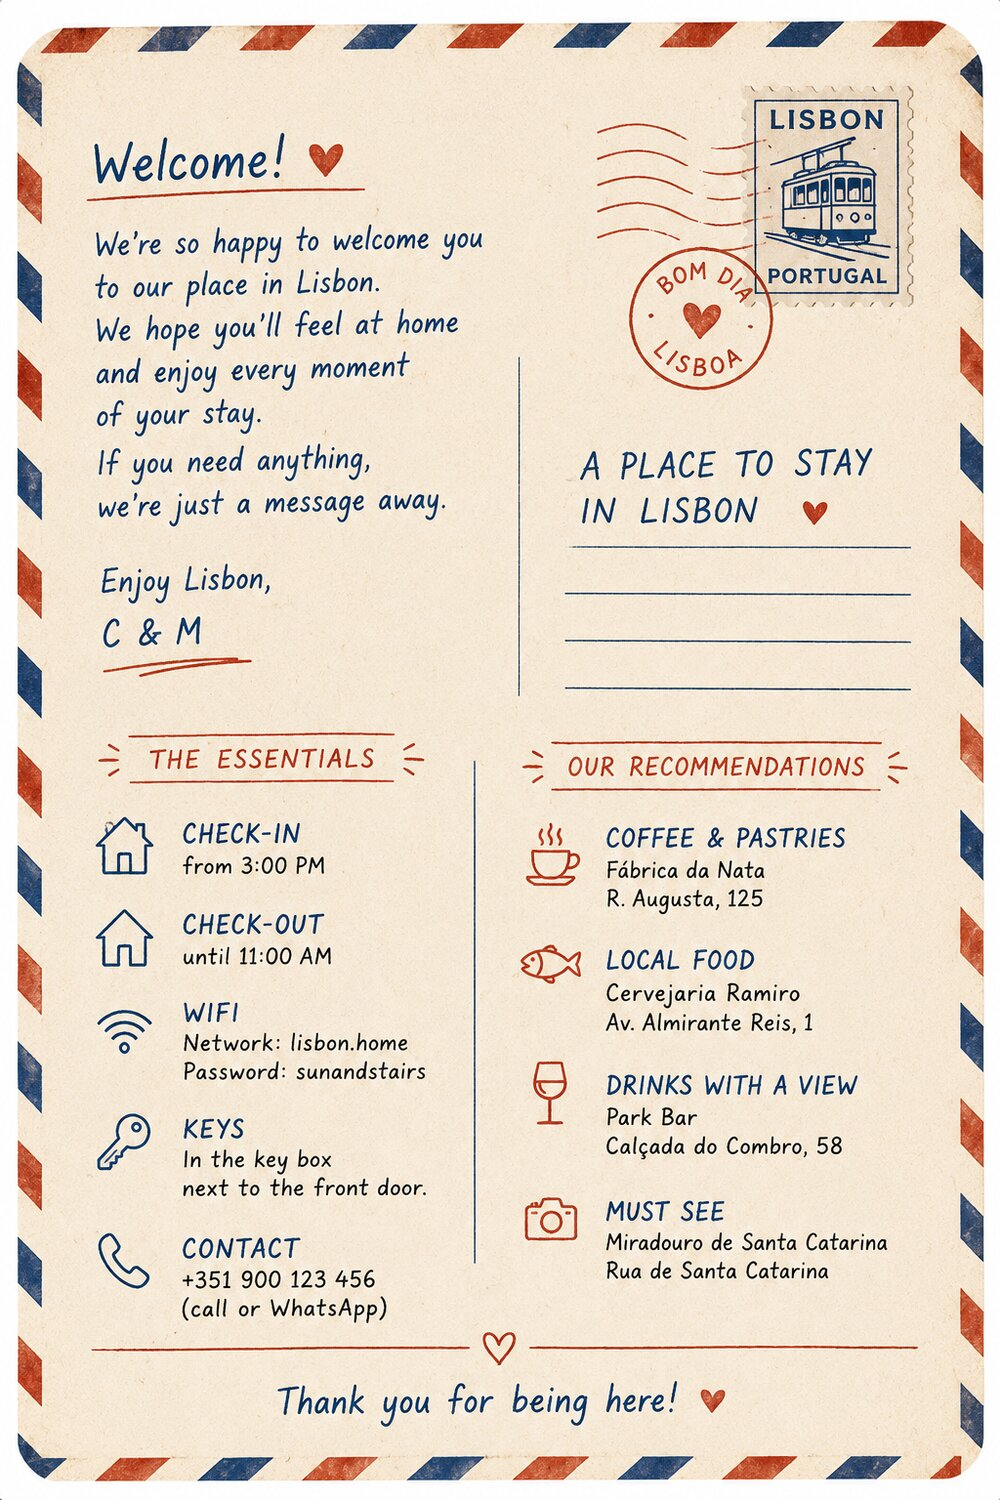
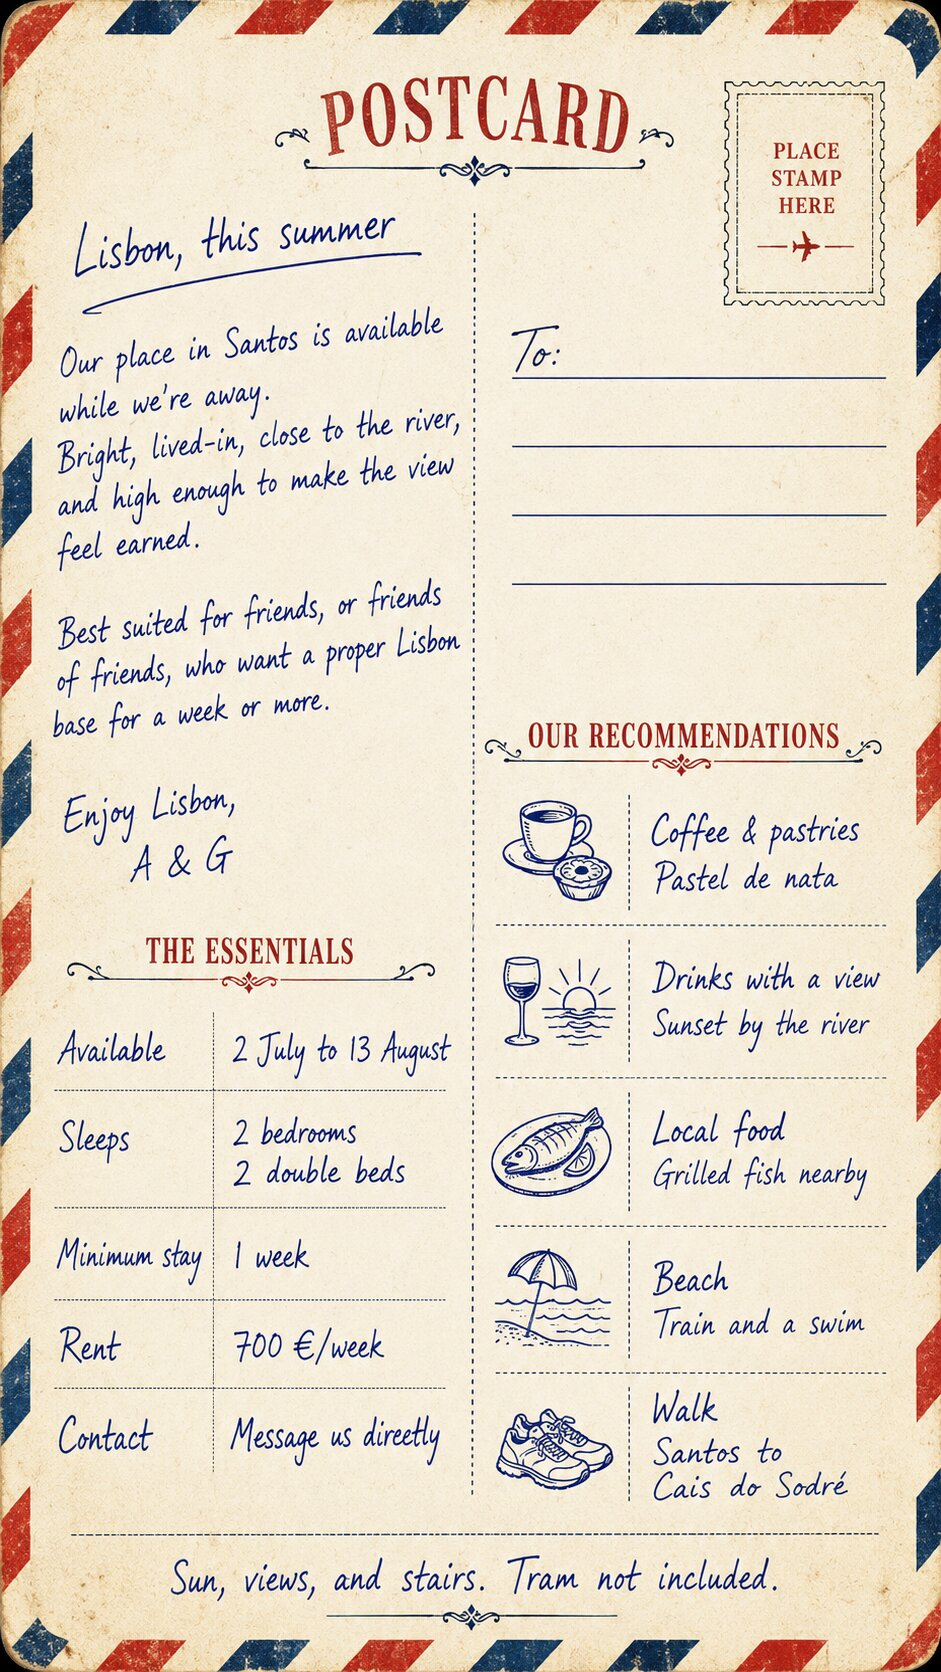
Add FR portrait back, refresh EN portrait back to 9:16
- assets/postcard-back-portrait.jpg replaced with vertical_back_02_en
  (941x1672, exactly 9:16 — fills the portrait frame without letterbox)
- assets/postcard-back-fr-portrait.jpg added from vertical_back_02_fr
  (1024x1536, 2:3 — still slight letterbox inside the 9:16 frame)
- back-fr wrapped in <picture> with (orientation: portrait) source
- Letterbox CSS now applies only to #back-fr in portrait
- Cache buster bumped ?v=4 -> ?v=5

diff --git a/index.html b/index.html
@@ -7,20 +7,20 @@
   <title>Lisbon, this summer — a place to stay</title>
   <meta name="description" content="Bright, lived-in flat in Santos. Available 2 July to 13 August. Friends and friends of friends.">
 
-  <link rel="icon" type="image/x-icon" href="/favicon.ico?v=4">
-  <link rel="icon" type="image/png" sizes="16x16" href="/favicon-16x16.png?v=4">
-  <link rel="icon" type="image/png" sizes="32x32" href="/favicon-32x32.png?v=4">
-  <link rel="apple-touch-icon" sizes="180x180" href="/apple-touch-icon.png?v=4">
-  <link rel="manifest" href="/site.webmanifest?v=4">
+  <link rel="icon" type="image/x-icon" href="/favicon.ico?v=5">
+  <link rel="icon" type="image/png" sizes="16x16" href="/favicon-16x16.png?v=5">
+  <link rel="icon" type="image/png" sizes="32x32" href="/favicon-32x32.png?v=5">
+  <link rel="apple-touch-icon" sizes="180x180" href="/apple-touch-icon.png?v=5">
+  <link rel="manifest" href="/site.webmanifest?v=5">
   <meta name="theme-color" content="#f3eee8">
-  <link rel="stylesheet" href="/style.css?v=4">
+  <link rel="stylesheet" href="/style.css?v=5">
 
   <!-- Open Graph -->
   <meta property="og:type" content="website">
   <meta property="og:title" content="A place to stay in Lisbon — this summer">
   <meta property="og:description" content="Bright, lived-in flat in Santos. Available 2 July to 13 August. Friends and friends of friends.">
   <meta property="og:url" content="https://lisbon.milizone.com/">
-  <meta property="og:image" content="https://lisbon.milizone.com/assets/og-image.jpg?v=4">
+  <meta property="og:image" content="https://lisbon.milizone.com/assets/og-image.jpg?v=5">
   <meta property="og:image:width" content="1200">
   <meta property="og:image:height" content="630">
   <meta property="og:image:alt" content="Lisbon postcard — A place to stay in Lisbon">
@@ -29,7 +29,7 @@
   <meta name="twitter:card" content="summary_large_image">
   <meta name="twitter:title" content="A place to stay in Lisbon — this summer">
   <meta name="twitter:description" content="Bright, lived-in flat in Santos. Available 2 July to 13 August. Friends and friends of friends.">
-  <meta name="twitter:image" content="https://lisbon.milizone.com/assets/og-image.jpg?v=4">
+  <meta name="twitter:image" content="https://lisbon.milizone.com/assets/og-image.jpg?v=5">
   <meta name="twitter:image:alt" content="Lisbon postcard — A place to stay in Lisbon">
 
   <script src="https://cdn.tailwindcss.com"></script>
@@ -57,29 +57,32 @@
       >
         <div class="card-inner relative w-full h-full">
           <picture>
-            <source media="(orientation: portrait)" srcset="/assets/postcard-front-portrait.jpg?v=4">
+            <source media="(orientation: portrait)" srcset="/assets/postcard-front-portrait.jpg?v=5">
             <img
               class="card-face card-face--front absolute inset-0 w-full h-full rounded-lg"
-              src="/assets/postcard-front.jpg?v=4"
+              src="/assets/postcard-front.jpg?v=5"
               alt='Postcard front — collage of Lisbon scenes with the title "A place to stay in Lisbon, this summer."'
             >
           </picture>
           <picture>
-            <source media="(orientation: portrait)" srcset="/assets/postcard-back-portrait.jpg?v=4">
+            <source media="(orientation: portrait)" srcset="/assets/postcard-back-portrait.jpg?v=5">
             <img
               id="back-en"
               class="card-face card-face--back absolute inset-0 w-full h-full rounded-lg"
-              src="/assets/postcard-back.jpg?v=4"
+              src="/assets/postcard-back.jpg?v=5"
               alt="Postcard back (English) — welcome guide with check-in details, WiFi, and local recommendations."
             >
           </picture>
-          <img
-            id="back-fr"
-            class="card-face card-face--back absolute inset-0 w-full h-full rounded-lg"
-            src="/assets/postcard-back-fr.jpg?v=4"
-            alt="Verso de la carte postale (français) — note manuscrite décrivant un appartement à Santos disponible du 2 juillet au 13 août, 2 chambres, 700 euros par semaine."
-            hidden
-          >
+          <picture>
+            <source media="(orientation: portrait)" srcset="/assets/postcard-back-fr-portrait.jpg?v=5">
+            <img
+              id="back-fr"
+              class="card-face card-face--back absolute inset-0 w-full h-full rounded-lg"
+              src="/assets/postcard-back-fr.jpg?v=5"
+              alt="Verso de la carte postale (français) — note manuscrite décrivant un appartement à Santos disponible du 2 juillet au 13 août, 2 chambres, 700 euros par semaine."
+              hidden
+            >
+          </picture>
         </div>
       </button>
       <div class="flex items-center gap-3">

diff --git a/style.css b/style.css
@@ -40,9 +40,9 @@
 }
 
 @media (orientation: portrait) {
-  /* Back images don't share the front's 9:16; fit them with paper
-     letterbox so text stays readable. */
-  #back-en,
+  /* FR portrait back is 2:3 vs the 9:16 frame; letterbox so text
+     stays readable. EN portrait back matches the frame and uses the
+     default cover. */
   #back-fr {
     object-fit: contain;
   }
